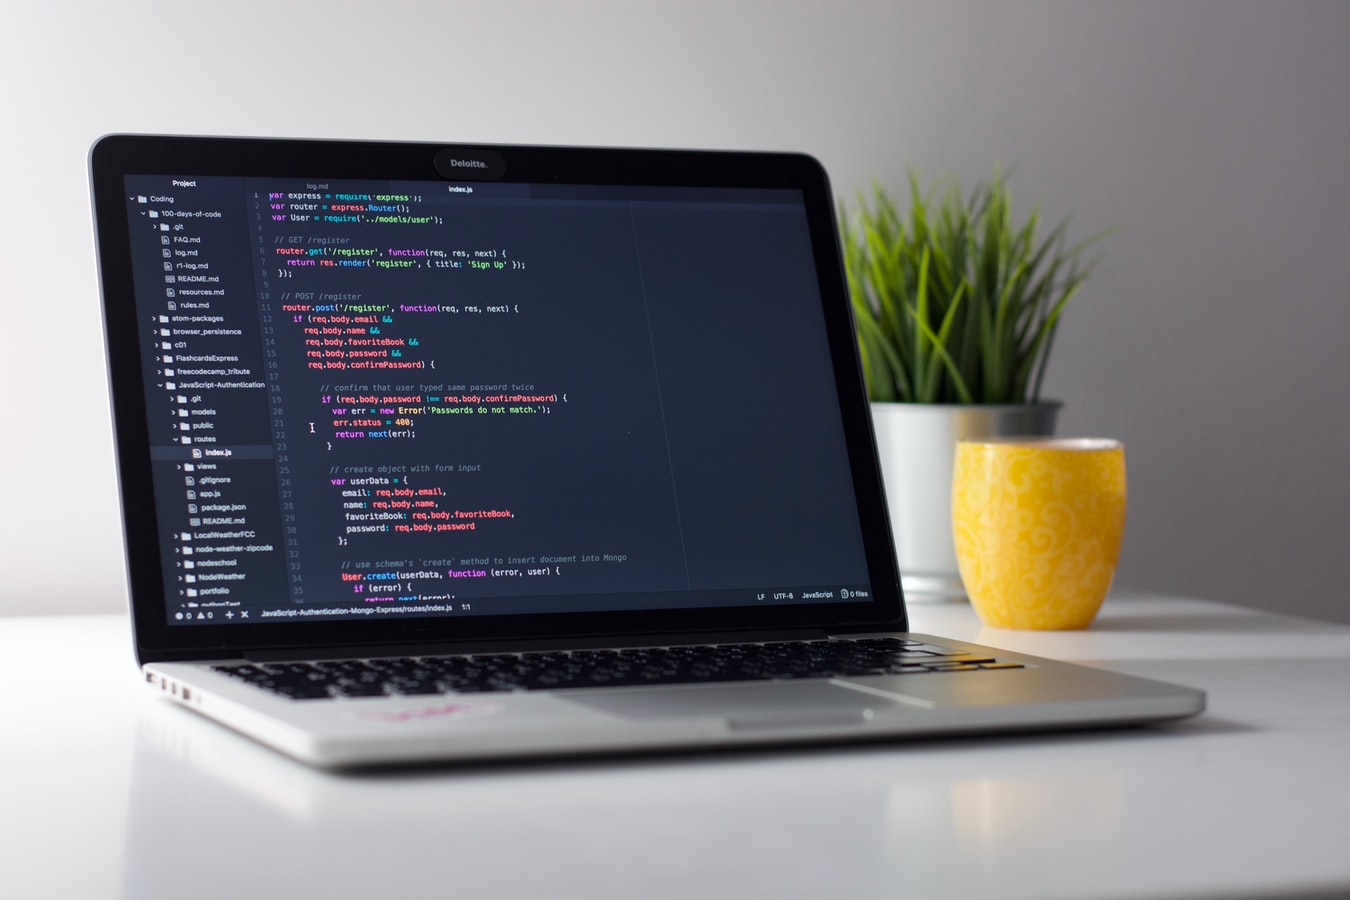
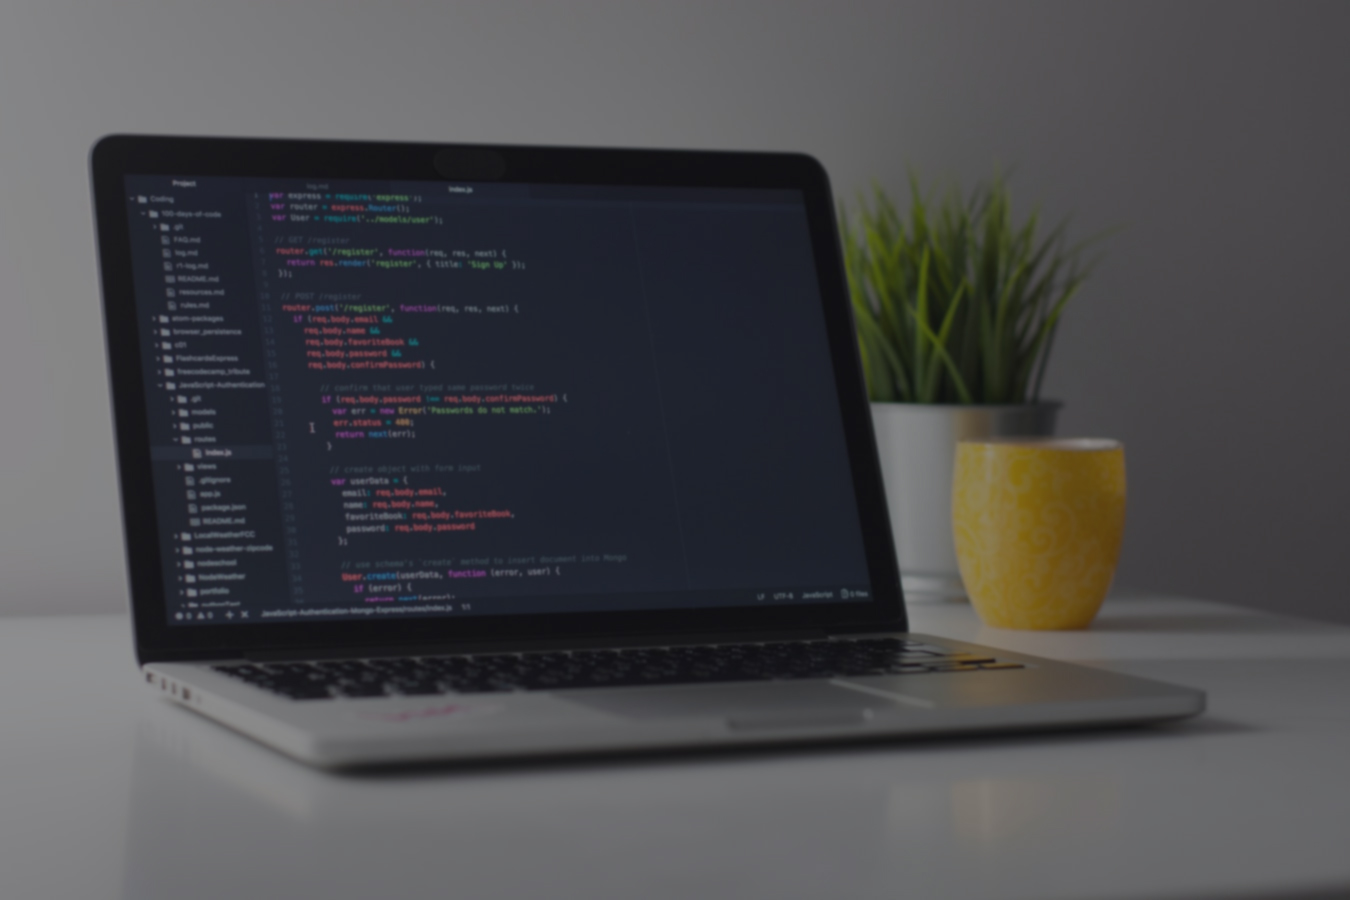
About sectioni and background

diff --git a/src/pages/about/index.tsx b/src/pages/about/index.tsx
@@ -1,22 +1,60 @@
 import React, { Component } from 'react';
 import { Map } from '@styled-icons/boxicons-regular/Map';
+import GuyProgrammingImg from '../../assets/images/guy-programming.png';
+import { Suitcase } from '@styled-icons/entypo/Suitcase';
+import { Layer } from '@styled-icons/boxicons-regular/Layer';
+import { HappyHeartEyes } from '@styled-icons/boxicons-regular/HappyHeartEyes';
 import './styles.scss';
 
 export default class About extends Component {
     render() {
         return (
-            <div className="background-dark">
+            <div className="background-container background-dark">
                 <div className="title-section">
                     <h1 className="title-page">About me</h1>
                 </div>
-                <div className="about-section-description">
-                    <h2>Felipe Chan</h2>
-                    <p><Map size="15" /> Sao Paulo, Brazil</p>
-                    <div className="about-description">
-                        <p>Software Engineer with more than 4 years of experience developing tech solutions.</p>
-                        <p>I have worked in many digital projects always trying to follow coding best practices to build systems with more integrity, best performance and good maintainability. I try to pay attention to every detail of systems I work to develop it with the best quality and user experience possible.</p>
-                        <p>Currently I'm working as a Fullstack Software Engineer at a startup in Brazil called Férias & Co., which is a company from the travel industry.</p>
-                        <p>My native language is Portuguese, but I'm also an English speaker.</p>
+                <div className="about-description-container row-desktop">
+                    <div className="about-description-section">
+                        <h2>Felipe S. Chan</h2>
+                        <p><Map size="15" /> Sao Paulo, Brazil</p>
+                        <div className="about-description">
+                            <p>A Software Engineer with more than 4 years of experience developing tech solutions.<br/>
+                                I have worked in many digital projects always trying to follow coding best practices to build systems with more integrity, best performance and good maintainability. I try to pay attention to every detail of systems I work to develop it with the best quality and user experience possible.</p>
+                            <p>Currently I'm working as a Fullstack Software Engineer at a startup in Brazil called Férias & Co., which is a company from the travel industry.</p>
+                            <p>My native language is Portuguese, but I'm also an English speaker.</p>
+                        </div>
+                        <div className="description-summary">
+                            <div className="summary row">
+                                <div className="icon">
+                                    <Suitcase size="20" />
+                                </div>
+                                <div className="icon-info">
+                                    <h6>+4 Years Job</h6>
+                                    <p>Experience</p>
+                                </div>
+                            </div>
+                            <div className="summary row">
+                                <div className="icon">
+                                    <Layer size="20" />
+                                </div>
+                                <div className="icon-info">
+                                    <h6>+10 projects</h6>
+                                    <p>Delivered</p>
+                                </div>
+                            </div>
+                            <div className="summary row">
+                                <div className="icon">
+                                    <HappyHeartEyes size="20" />
+                                </div>
+                                <div className="icon-info">
+                                    <h6>Great feedbacks</h6>
+                                    <p>From clients</p>
+                                </div>
+                            </div>
+                        </div>
+                    </div>
+                    <div className="icon-guy-programming">
+                        <img src={GuyProgrammingImg} alt="Programming" />
                     </div>
                 </div>
             </div>

diff --git a/src/assets/styles/buttons.scss b/src/assets/styles/buttons.scss
@@ -22,7 +22,7 @@ button {
   font-size: 1rem;
   line-height: 1.5;
   border: 0px;
-  border-radius: 5px;
+  border-radius: 20px;
   border-color: transparent;
   padding: 0px 15px;
   height: 40px;
@@ -135,45 +135,6 @@ button {
   }
 }
 
-.backoffice-content.modal-footer .btn {
-  height: 40px !important;
-}
-
-.backoffice-content.modal-footer .btn-light {
-  color: $color_btn_light !important;
-  border: solid 1px $color_btn_light !important;
-  background-color: white !important;
-
-  &:focus {
-    border: solid 1px $color_btn_success !important;
-  }
-
-  &:hover {
-    color: white !important;
-    border: 0px !important;
-    background-color: darken($color: $color_btn_success, $amount: 5%) !important;
-  }
-
-  &:active {
-    color: white !important;
-    border: 0px !important;
-    background-color: darken($color: $color_btn_success, $amount: 10%) !important;
-  }
-}
-
-.backoffice-content.modal-footer .btn-success {
-  color: white !important;
-  background-color: $color_btn_success !important;
-
-  &:hover {
-    background-color: darken($color: $color_btn_success, $amount: 5%) !important;
-  }
-
-  &:active {
-    background-color: darken($color: $color_btn_success, $amount: 10%) !important;
-  }
-}
-
 .btn-warning {
   color: white;
   background-color: $color_btn_warning;
@@ -197,7 +158,6 @@ button {
 
   &:hover {
     color: white;
-    border: 0px;
     background-color: darken($color: $color_btn_success, $amount: 5%);
   }
 
@@ -205,6 +165,27 @@ button {
     color: white;
     border: 0px;
     background-color: darken($color: $color_btn_success, $amount: 10%);
+  }
+}
+
+.btn-light-primary {
+  color: $color_btn_primary;
+  border: solid 1px $color_btn_primary;
+  background-color: white;
+
+  &:focus {
+    border: solid 1px $color_btn_primary;
+  }
+
+  &:hover {
+    color: white;
+    background-color: darken($color: $color_btn_primary, $amount: 5%);
+  }
+
+  &:active {
+    color: white;
+    border: 0px;
+    background-color: darken($color: $color_btn_primary, $amount: 10%);
   }
 }
 
@@ -219,13 +200,11 @@ button {
 
   &:hover {
     color: white;
-    border: 0px;
     background-color: darken($color: $color_btn_danger, $amount: 5%);
   }
 
   &:active {
     color: white;
-    border: 0px;
     background-color: darken($color: $color_btn_danger, $amount: 10%);
   }
 }

diff --git a/src/pages/about/styles.scss b/src/pages/about/styles.scss
@@ -1,8 +1,75 @@
-.about-section-description {
+.about-description-container {
     h2 {
         margin-bottom: 10px;
     }
+
     p {
-        margin-bottom: 20px;
+        margin-bottom: 15px;
+    }
+}
+
+.about-description-section {
+    width: 100%;
+
+    @media (min-width: 900px) {
+        width: 50%;
+    }
+}
+
+.about-description {
+    margin-bottom: 30px;
+}
+
+.icon-guy-programming {
+    width: 50%;
+    padding: 40px 40px 0;
+    margin: auto;
+
+    @media (min-width: 900px) {
+        padding-top: 0;
+    }
+
+    img {
+        max-width: 100%;
+
+        @media (min-width: 900px) {
+            width: 400px;
+        }
+    }
+}
+
+.description-summary {
+    justify-content: center;
+    
+    @media (min-width: 900px) {
+        display: flex;
+        justify-content: left;
+    }
+
+    .icon {
+        background-color: #11d6f0;
+        padding: 10px;
+        border-radius: 25px;
+        width: 40px;
+        height: 40px;
+    }
+
+    .icon-info {
+        padding-left: 10px;
+        
+        h6 {
+            font-size: 14px;
+            text-transform: uppercase;
+            font-weight: bold;
+        }
+
+        p {
+            margin-bottom: 0;
+        }
+    }
+
+    .summary {
+        margin-right: 15px;
+        margin-bottom: 15px;
     }
 }

diff --git a/src/pages/home/index.tsx b/src/pages/home/index.tsx
@@ -1,5 +1,8 @@
 import React, { Component } from 'react';
+import { PersonFill } from '@styled-icons/bootstrap/PersonFill';
+import { Envelope } from '@styled-icons/boxicons-solid/Envelope';
 import './styles.scss';
+import { useHistory } from 'react-router-dom';
 
 export default class Menu extends Component<any, { text: string }> {
     finalText = `Hello! I'm Felipe Chan`;
@@ -26,11 +29,20 @@ export default class Menu extends Component<any, { text: string }> {
         }
     }
 
+    goToPage() {
+        this.props.history.push('/about');
+
+    }
+
     render() {
         return (
             <div className="background-home">
                 <div className="title">
                     <h1>{this.state.text}</h1>
+                    <div className="home-options">
+                        <button className="btn btn-primary" onClick={() => this.goToPage()}><PersonFill className="icon" size="16"/>Who am I</button>
+                        <button className="btn btn-light-primary"><Envelope className="icon" size="16"/>Contact me</button>
+                    </div>
                 </div>
             </div>
         );

diff --git a/src/components/header/index.tsx b/src/components/header/index.tsx
@@ -4,6 +4,7 @@ import { Menu } from '@styled-icons/boxicons-regular/Menu';
 import { useDispatch } from 'react-redux';
 import * as MenuActions from '../../store/actions/menu';
 import './styles.scss';
+import { Link } from 'react-router-dom';
 
 export default function Header() {
     const dispatch = useDispatch();
@@ -15,7 +16,9 @@ export default function Header() {
     return (
         <header>
             <div className="header-profile-image-container">
-                <img src={ProfileImg} className="header-profile-image" alt="Profile" />
+                <Link to="/">
+                    <img src={ProfileImg} className="header-profile-image" alt="Profile" />
+                </Link>
             </div>
             <button className="icon-menu" onClick={() => toggleMenu()}>
                 <Menu size="40" />

diff --git a/src/index.scss b/src/index.scss
@@ -1,4 +1,5 @@
 @import url('https://fonts.googleapis.com/css?family=Roboto:400,500,700&display=swap');
+@import './assets//styles/buttons.scss';
 
 * {
   margin: 0;
@@ -28,9 +29,26 @@ p {
   line-height: 25px;
 }
 
+.background-container {
+  padding: 20px;
+
+  @media (min-width: 900px) {
+    padding: 30px 80px;
+  }
+}
+
 .background-dark {
   background-color: #101010;
-  padding: 20px;
+}
+
+.row {
+  display: flex;
+}
+
+.row-desktop {
+  @media (min-width: 900px) {
+    display: flex;
+  }
 }
 
 .title-section {

diff --git a/src/assets/styles/colors.scss b/src/assets/styles/colors.scss
@@ -1,7 +1,7 @@
 $color-danger: #CE3A3C;
 $color-warning: #f9e608;
 $color-success: #2acc5c;
-$color-info: #5382ec;
+$color-info: #11d6f0;
 $color-light-grey: #efefef;
 $color-grey: #a5a5a5;
 $color-dark-grey: #9a9a9a;

diff --git a/src/pages/home/styles.scss b/src/pages/home/styles.scss
@@ -15,3 +15,14 @@
     padding: 5px;
     text-align: center;
 }
+
+.home-options {
+    .btn {
+        font-weight: bold;
+        margin: 30px 10px;
+    }
+
+    .icon {
+        margin-right: 10px;
+    }
+}
